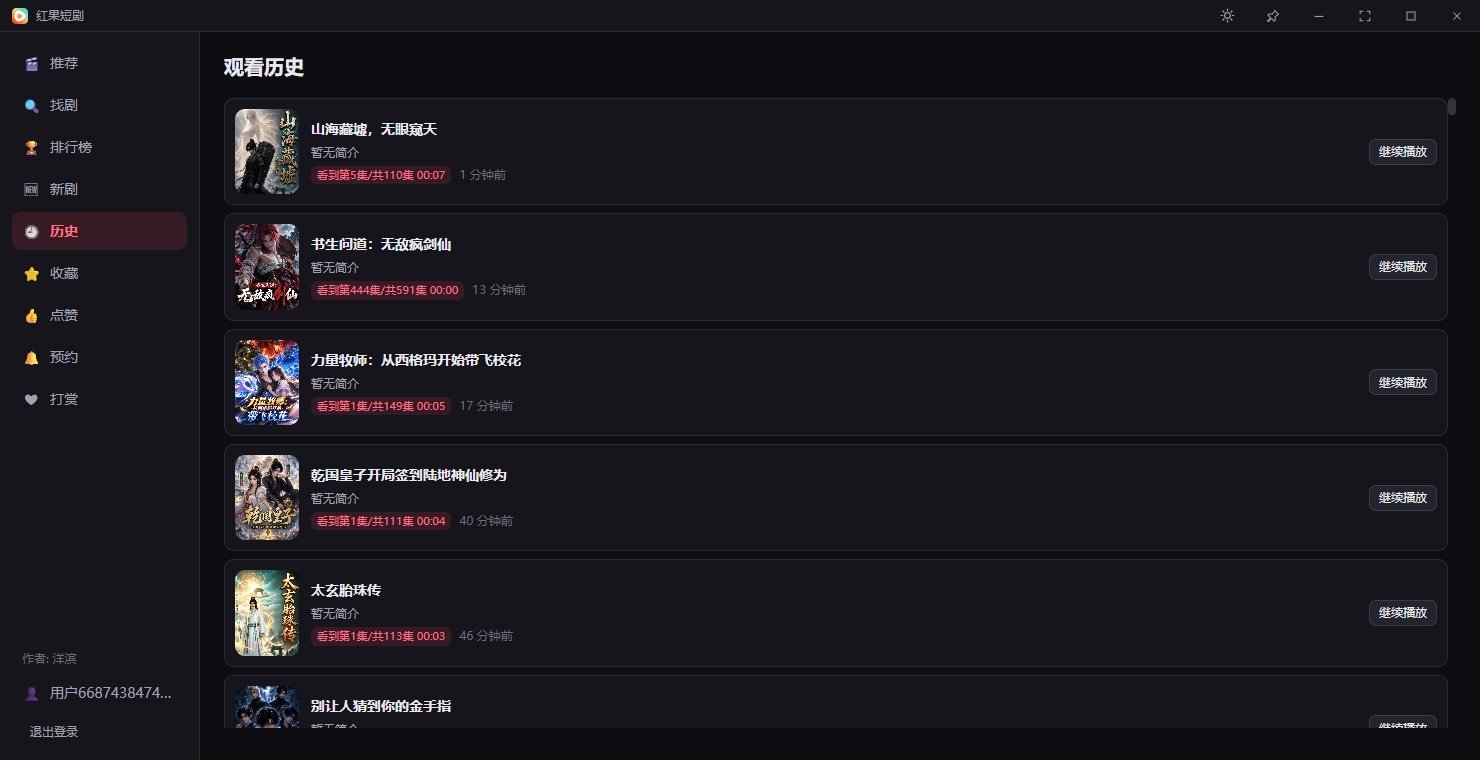
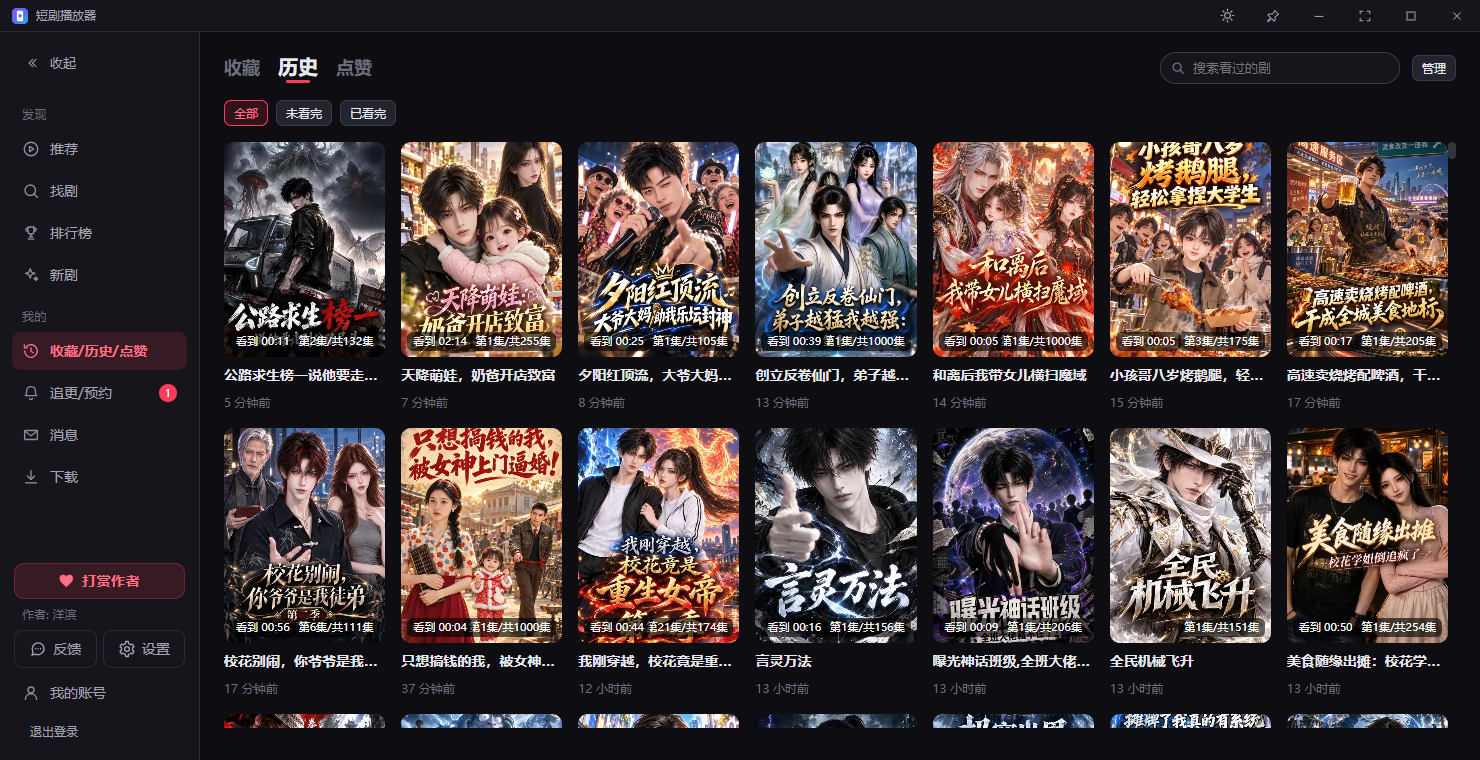
README 改成新名字和新图标: 红果短剧电脑版 → 短剧播放器, 程序文件名 / .app 名跟着改, 加上新图标和 "以前叫红果短剧" 的说明; 截图换成现在的界面

diff --git a/README.md b/README.md
@@ -1,10 +1,12 @@
 <div align="center">
 
-# 红果短剧电脑版
+<img src="docs/icon.png" width="96" height="96" alt="短剧播放器">
+
+# 短剧播放器
 
 ### 不用安卓模拟器，直接在 Windows / macOS 上刷红果短剧
 
-专为电脑设计的红果短剧桌面客户端
+红果短剧的非官方第三方电脑客户端, 专为电脑设计 (1.2.28 起由「红果短剧」改名, 换了新图标)
 
 **沉浸式刷剧 · 自动连播 · 竖屏模式 · 追更提醒 · 弹幕评论 · 小窗模式 · 搜索与排行榜**
 
@@ -16,7 +18,7 @@ Windows 10 / 11 (64 位) · macOS (Intel 与 Apple 芯片通用) · 免费无广
 
 打不开上面的链接? 用蓝奏云 (无需密码): **[wwalp.lanzout.com/b0rbj88ji](https://wwalp.lanzout.com/b0rbj88ji)**
 
-![红果短剧电脑版: 沉浸式刷剧](docs/screenshots/recommend.png)
+![短剧播放器: 沉浸式刷剧](docs/screenshots/recommend.png)
 
 </div>
 
@@ -24,7 +26,7 @@ Windows 10 / 11 (64 位) · macOS (Intel 与 Apple 芯片通用) · 免费无广
 
 手机刷短剧很方便. 但已经坐在电脑前的时候, 为了看几集还要拿起手机, 或者专门开一个安卓模拟器, 多少有点麻烦.
 
-所以做了这个真正适合电脑用的红果短剧客户端: 鼠标滚轮刷剧, 方向键切换, 看完自动下一集, 还能开个小窗边工作边追剧.
+所以做了这个真正适合电脑用的短剧客户端: 鼠标滚轮刷剧, 方向键切换, 看完自动下一集, 还能开个小窗边工作边追剧.
 
 ## ✨ 主要功能
 
@@ -67,27 +69,31 @@ Windows 10 / 11 (64 位) · macOS (Intel 与 Apple 芯片通用) · 免费无广
 
 **Windows**
 
-1. 下载压缩包, **解压到一个文件夹**后双击 `红果短剧.exe`, 无需安装. 压缩包里还有:
+1. 下载压缩包, **解压到一个文件夹**后双击 `短剧播放器.exe`, 无需安装. 压缩包里还有:
    - `MicrosoftEdgeWebview2Setup.exe`: WebView2 运行时安装程序
    - `HEVC视频扩展-双击安装.appx`: HEVC 视频扩展
    - `使用说明.txt`
 
    请和程序放在一起: 首次运行如果系统缺少 **WebView2 运行时** 或 **HEVC 视频扩展**, 程序会用它们自动安装 (WebView2 需要联网).
 2. 若提示 "Windows 已保护你的电脑", 点 **更多信息 → 仍要运行** (程序没有购买代码签名证书).
-3. 以后有新版本时程序会提示, 点 "立即重启更新" 即可自动更新 (只替换 `红果短剧.exe`).
+3. 以后有新版本时程序会提示, 点 "立即重启更新" 即可自动更新 (只替换 `短剧播放器.exe`).
 
 > Releases 里的 `hongguo-版本号-windows-amd64.exe` 是主程序本身, 供自动更新使用; 新安装请下载 zip.
 
 **macOS**
 
-1. 解压得到 `红果短剧.app`, 拖到 "应用程序".
+1. 解压得到 `短剧播放器.app`, 拖到 "应用程序".
 2. 应用未签名, 首次打开如提示 "已损坏" 或 "无法验证开发者", 在终端执行:
    ```
-   xattr -cr /Applications/红果短剧.app
+   xattr -cr /Applications/短剧播放器.app
    ```
    然后再打开.
 
 ## ❓ 常见问题
+
+**以前叫「红果短剧」, 怎么变成「短剧播放器」了?**
+
+1.2.28 起改名「短剧播放器」并换了新图标, 功能和数据都不变. 从旧版自动更新后, 第一次打开时程序会自动改成新名字 (Windows 桌面 / 开始菜单 / 任务栏的快捷方式也会跟着改), 不用重新下载.
 
 **需要登录吗? 要钱吗?**
 
@@ -97,10 +103,10 @@ Windows 10 / 11 (64 位) · macOS (Intel 与 Apple 芯片通用) · 免费无广
 
 是**误报**. 本程序没有购买代码签名证书, 新版本刚发布时也还没有 "信誉", 再加上自动更新会替换自己的程序文件, 这些行为容易被安全软件的机器学习规则 (如 Windows 安全中心的 `!ml`) 当成可疑程序. 程序不会收集你的账号密码, 也不会改系统设置.
 
-- **Windows 安全中心**: 打开 "病毒和威胁防护" › "保护历史记录", 找到被拦的红果短剧点 **还原 / 允许**; 再到 "病毒和威胁防护设置" › "排除项" › **添加排除项 › 文件夹**, 选择程序所在的文件夹.
+- **Windows 安全中心**: 打开 "病毒和威胁防护" › "保护历史记录", 找到被拦的短剧播放器点 **还原 / 允许**; 再到 "病毒和威胁防护设置" › "排除项" › **添加排除项 › 文件夹**, 选择程序所在的文件夹.
 - **360 安全卫士**: 木马查杀 › 右下角 **恢复区** 里恢复, 再到 **信任区** 添加程序所在文件夹.
 - **火绒**: 隔离区里恢复, 再在 "信任区" 添加程序文件夹.
-- 建议把程序放在**单独的文件夹** (如 `D:\红果短剧\`), 不要直接放桌面或 D 盘根目录, 方便加排除项; 加了排除项后, 以后自动更新出来的新版本也不会再被删.
+- 建议把程序放在**单独的文件夹** (如 `D:\短剧播放器\`), 不要直接放桌面或 D 盘根目录, 方便加排除项; 加了排除项后, 以后自动更新出来的新版本也不会再被删.
 
 **提示 "获取播放地址失败: 服务端返回了空内容" / 突然播放不了?**
 
@@ -132,7 +138,7 @@ Windows 10 / 11 (64 位) · macOS (Intel 与 Apple 芯片通用) · 免费无广
 
 **双显卡: 画面卡住、声音照走 / 想指定用哪块显卡?**
 
-硬件解码和画质增强在 WebView2 (Edge 网页组件) 里进行, Windows "图形设置" 或 NVIDIA 控制面板里给 `红果短剧.exe` 指定的显卡管不到它. 1.2.22 起, 电脑有两块以上显卡时, 播放器设置面板 › 解码 里有 **"画面用的显卡"**:
+硬件解码和画质增强在 WebView2 (Edge 网页组件) 里进行, Windows "图形设置" 或 NVIDIA 控制面板里给 `短剧播放器.exe` 指定的显卡管不到它. 1.2.22 起, 电脑有两块以上显卡时, 播放器设置面板 › 解码 里有 **"画面用的显卡"**:
 
 - **自动** (默认): 先按 Windows 图形设置里给本程序选的 节能 / 高性能 来选, 没选过就用接着显示器的那块 (笔记本一般是核显, 把独显设成全局首选也不会再卡);
 - 也可以直接指定某块显卡 (比如让画质增强用更强的独显). 改完点 "重启" 生效.
@@ -155,7 +161,7 @@ Windows 10 / 11 (64 位) · macOS (Intel 与 Apple 芯片通用) · 免费无广
 
 - 很旧的版本 (1.2.3 以前) 检查更新可能显示已是最新, 请直接到下载页或蓝奏云下载最新的 zip, 解压覆盖原来的文件夹即可 (设置和登录状态都会保留).
 - 连不上更新服务器时, 程序会改从蓝奏云检查更新.
-- 更新后程序 (`红果短剧.exe`) 不见了, 基本是被安全软件删了, 见上面 "杀毒软件报毒".
+- 更新后程序 (`短剧播放器.exe`) 不见了, 基本是被安全软件删了, 见上面 "杀毒软件报毒".
 
 **重新打开程序又要登录?**
 
@@ -172,7 +178,7 @@ Windows 10 / 11 (64 位) · macOS (Intel 与 Apple 芯片通用) · 免费无广
 **提示 "无法连接本地播放服务"?**
 
 程序在本机 (127.0.0.1) 起一个小服务给播放器送视频, 不连外网. 被防火墙或安全软件拦了就会这样: 按提示点 **一键放行** (需要管理员确认),
-或在 Windows 防火墙 "允许应用通过防火墙" 里勾选 `红果短剧.exe`; 360 / 火绒等安全软件请把本程序加入信任列表.
+或在 Windows 防火墙 "允许应用通过防火墙" 里勾选 `短剧播放器.exe`; 360 / 火绒等安全软件请把本程序加入信任列表.
 
 **遇到问题怎么反馈?**
 
